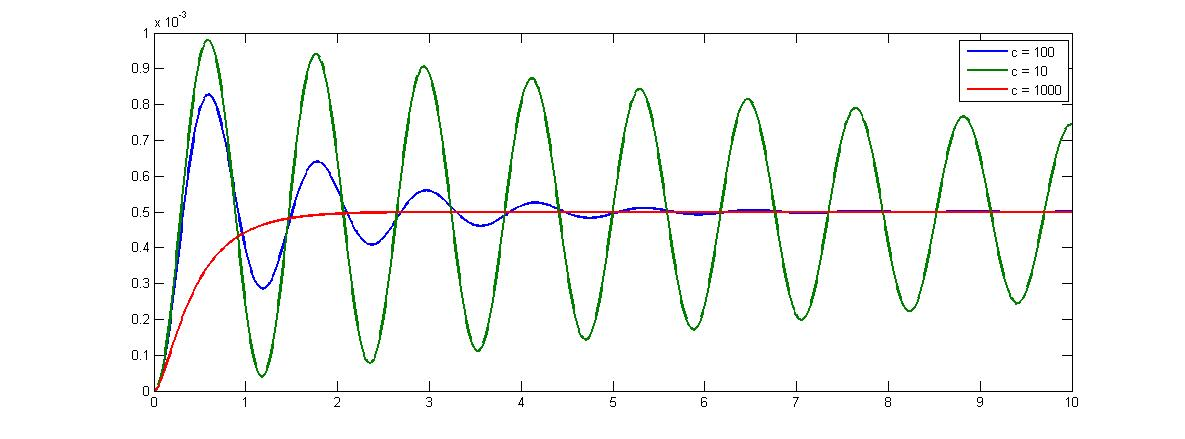
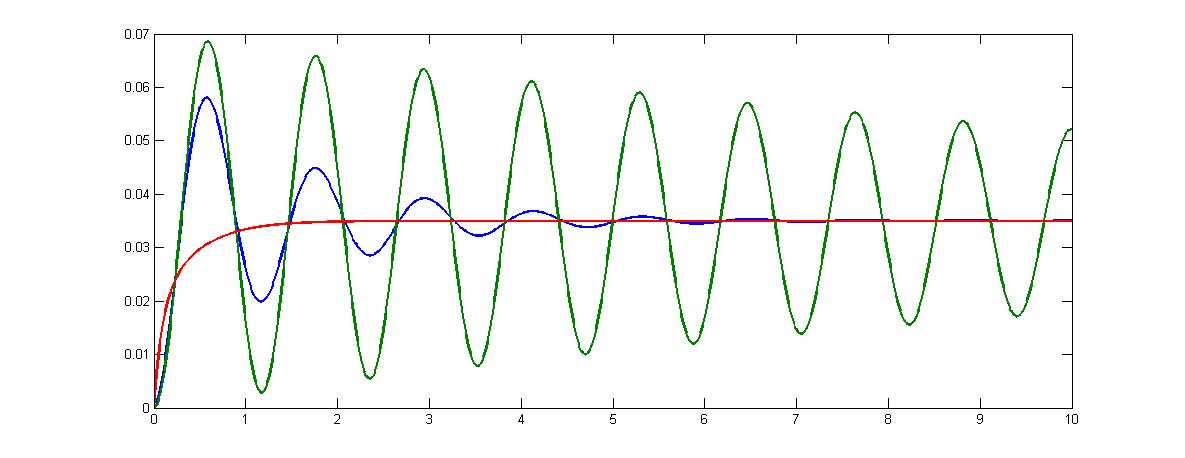
Korrekta stegsvar och text
Mer text behövs

diff --git a/Studsmatta.tex b/Studsmatta.tex
@@ -831,44 +831,66 @@ Systemet är kausalt då dess utsignal enbart beror på nu- och dåtida insignal
 
 \subsection{Frekvensfunktion}
 
+\subsection{Amplitud- och faskaraktäristik}
+
+Vi gav en lite klumpig beskrivning av vad amplitud- och faskaraktäristik är för något och fick kommentaren att vi måste förtydliga detta. Dessutom satte vi in våra konstanter lite hastigt i absolutbeloppet av frekvensfunktionen.
+
+Amplitud- och faskaraktäristik beskriver hur ett system påverkar en signals amplitud och fas beroende på frekvensen. Amplitudkaraktäristiken beskriver hur utsignalens amplitud varierar beroende på insignalens frekvens. Faskaraktäristiken beskriver i sin tur hur utsignalens fas varierar vid insignalens frekvens i förhållande till dess fas.
+
 \subsection{Impuls- och stegsvar för olika system}
 
-Om man varierar de olika konstanterna så får man olika system med olika egenskaper. Vi gjorde några sådana tester med fas- och amplitudkaraktäristik, men inte med impuls- eller stegsvaret. Så här följer några olika variationer.
+Om man varierar de olika konstanterna så får man olika system med olika egenskaper. Vi gjorde några sådana tester med fas- och amplitudkaraktäristik, men inte med impuls- eller stegsvaret. Impulssvaret och stegsvaret är centrala i ett systems beteende och vi borde ha diskuterat dessa. Här följer både impulssvar och stegsvar med variation av konstanterna.
 
-\begin{figure}[]
+\begin{figure}[h]
 \begin{center}
-\includegraphics[scale=0.3]{impulssvar(massa)}
+\includegraphics[scale=0.4]{impulssvar(massa)}
 \caption{Impulssvar med varierande massa}
 \end{center}
 \end{figure}
-\begin{figure}[]
+
+Man kan se att massan ger lite skillnad både amplitud och frekvens. Eftersom kraften är densamma (här ignoreras faktumet att en tung person förmodligen kan ge en större kraft än en väldigt lätt person) så kommer den lätta massan få högre amplitud eftersom gravitationen påverkar mindre. Man kan också se att den tunga personen svänger under en längre period på grund av rörelsemängden.
+
+\newpage
+\begin{figure}[h]
 \begin{center}
-\includegraphics[scale=0.3]{impulssvar(fjader)}
+\includegraphics[scale=0.4]{impulssvar(fjader)}
 \caption{Impulssvar med varierande fjäderkonstant}
 \end{center}
 \end{figure}
-\begin{figure}[]
+
+Med en väldigt hög fjäderkonstant så får systemet en väldigt liten amplitud och hög frekvens. Detta för att fjädern är så stark att den trycker tillbaka med stor kraft väldigt snabbt. Med den låga fjäderkonstanten har man istället en mycket hög amplitud och låg frekvens. Det första man kan konstatera är att den förmodligen slår i backen för att studsmattan inte är så hög. Detta beteende kommer ifrån att fjädern inte är så stark så det krävs en lång amplitud för att den ska ta ut gravitationen och insignalen. 
+
+\begin{figure}[h]
 \begin{center}
-\includegraphics[scale=0.3]{impulssvar(dampning)}
+\includegraphics[scale=0.4]{impulssvar(dampning)}
 \caption{Impulssvar med varierande dämpningskonstant}
 \end{center}
 \end{figure}
 
-\begin{figure}[]
+Med låg dämpning så kommer systemet svänga väldigt länge. Då finns det knappt någon kraft som ständigt jobbar emot svängningen, vilket ger en väldigt långvarig svängning. Motsatsen blir ju då självklart att den inte svänger alls på grund av den starka kraften som ständigt jobbar emot svängningen.
+\newpage
+
+\begin{figure}[h]
 \begin{center}
-\includegraphics[scale=0.3]{stegsvar(massa)}
+\includegraphics[scale=0.4]{stegsvar(massa)}
 \caption{Stegsvar med varierande massa}
 \end{center}
 \end{figure}
-\begin{figure}[]
+
+När man ändrar massan så är det ganska självklart att det nya jämviktsläget ändras. Om någon står på en studsmatta och får ett bowlingklot kastat till sig kommer denne sjunka ned djupare. Här ser vi bara några olika exempel av hur tung personen är innan detta händer. Man kan då se att det beter sig mycket likt impulssvaret med avseende på utseendet, men att de svänger in på olika nya värden.
+
+\begin{figure}[h]
 \begin{center}
-\includegraphics[scale=0.3]{stegsvar(fjader)}
+\includegraphics[scale=0.4]{stegsvar(fjader)}
 \caption{Stegsvar med varierande fjäderkonstant}
 \end{center}
 \end{figure}
-\begin{figure}[]
+
+Fjäderkonstanten påverkar det nya jämviktsläget väldigt mycket. Med en hög fjäderkonstant så 
+
+\begin{figure}[h]
 \begin{center}
-\includegraphics[scale=0.3]{stegsvar(dampning)}
+\includegraphics[scale=0.4]{stegsvar(dampning)}
 \caption{Stegsvar med varierande dämpningskonstant}
 \end{center}
 \end{figure}

diff --git a/FleraStegsvar.m b/FleraStegsvar.m
@@ -1,6 +1,9 @@
 function FleraStegsvar( )
 %FLERAIMPULSSVAR Summary of this function goes here
 %   Detailed explanation goes here
+%
+%y = 1./(w*m).*(1 - cos(w.*t).*exp(-a.*t) -
+%a./w.*sin(w.*t).*exp(-a.*t))./(w + ((a.^2)./w)); FEL!!!
 
 k = 2000;
 c = 100;
@@ -11,7 +14,7 @@ a = c/(2*m);
 
 t = linspace(0,10,1000);
 
-y = 1./(w*m).*(1 - cos(w.*t).*exp(-a.*t) - a./w.*sin(w.*t).*exp(-a.*t))./(w + ((a.^2)./w));
+y = (1./(w.^2 + a.^2)) * (1 - cos(w.*t).*exp(-a.*t) - (a./w^2).*sin(w*t).*exp(-a.*t));
 
 hFig = figure(1);
 set(hFig, 'Position', [0,0,700,400]);
@@ -19,13 +22,13 @@ set(hFig, 'Position', [0,0,700,400]);
 c = 10;
 w = sqrt(-(c/(2*m))^2 + (k/m));
 a = c/(2*m);
-u = 1./(w*m).*(1 - cos(w.*t).*exp(-a.*t) - a./w.*sin(w.*t).*exp(-a.*t))./(w + ((a.^2)./w));
+u = (1./(w.^2 + a.^2)) * (1 - cos(w.*t).*exp(-a.*t) - (a./w^2).*sin(w*t).*exp(-a.*t));
 
 
 c = 1000;
 w = sqrt(-(c/(2*m))^2 + (k/m));
 a = c/(2*m);
-v = 1./(w*m).*(1 - cos(w.*t).*exp(-a.*t) - a./w.*sin(w.*t).*exp(-a.*t))./(w + ((a.^2)./w));
+v = (1./(w.^2 + a.^2)) * (1 - cos(w.*t).*exp(-a.*t) - (a./w^2).*sin(w*t).*exp(-a.*t));
 plot(t,y,t,u,t,v);
 
 
